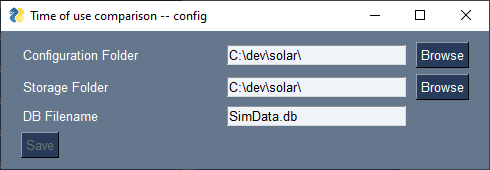
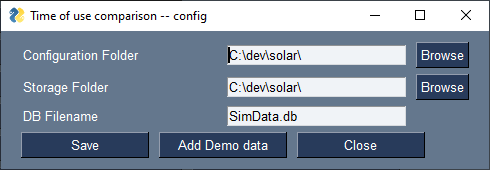
Adding demo data

Changed region(s): [[0.0306, 0.7647, 0.8878, 0.9412], [0.4592, 0.2941, 0.4898, 0.3529]]

diff --git a/toutc.py b/toutc.py
@@ -10,9 +10,10 @@ from simulate import guiMain
 from fetchdata_gui import guiFetch
 from makedb import guiMakeDB
 from makedbFromProfile import _guiDBFromProfile
-from windowRates import getRates
+from windowRates import getRates, _updateRates
 from loadDefaultSolar import loadDefaultSolar
 from reportdb import display
+from demodefaults import DEMO_START, DEMO_ANNUAL, DEMO_BASE, DEMO_MONTHLYDIST, DEMO_DOWDIST, DEMO_HOURLYDIST, DEMO_RATES, DEMO_SYSTEM
 
 MAIN_WINDOW = None
 
@@ -26,6 +27,28 @@ STATUS_SCENARIOS = False
 STATUS_LOAD = False
 STATUS_PV = False
 STATUS_RATES = False
+
+def _saveDemoConfig(): 
+    # SystemProperties.json
+    _updateSysConfig(DEMO_SYSTEM)
+    # rates.json
+    _updateRates(DEMO_RATES)
+    # loadProfile.json
+    profile = {}
+    profile["AnnualUsage"] = DEMO_ANNUAL
+    profile["HourlyBaseLoad"] = DEMO_BASE
+    profile["MonthlyDistribution"] = DEMO_MONTHLYDIST
+    profile["DayOfWeekDistribution"] = DEMO_DOWDIST
+    profile["HourlyDistribution"] = DEMO_HOURLYDIST
+    _saveProfile(profile)
+    # populateDB 
+    _guiDBFromProfile(CONFIG, DEMO_START)
+    # solar 
+    dbFile = os.path.join(STORAGE, DBFILE)
+    loadDefaultSolar(CONFIG, dbFile)
+    
+    _setStatus()
+    return
 
 def _writeEnv():
     data = {}
@@ -43,12 +66,13 @@ def _getConfig():
     global DBFILE
 
     enableSave = not os.path.isdir(CONFIG) and not os.path.isdir(STORAGE)
+    enableDemo = not os.path.isfile(os.path.join(CONFIG, "EnvProperties.json"))
 
     left_col = [
             [sg.Text('Configuration Folder', size=(24,1)), sg.In(size=(25,1), enable_events=True ,key='-C_FOLDER-', default_text=CONFIG), sg.FolderBrowse()],
             [sg.Text('Storage Folder', size=(24,1)), sg.In(size=(25,1), enable_events=True ,key='-S_FOLDER-', default_text=STORAGE), sg.FolderBrowse()],
             [sg.Text('DB Filename', size=(24,1)), sg.In(size=(25,1), enable_events=True ,key='-DB_NAME-', default_text=DBFILE)],
-            [sg.Button('Save', key='-CONFIG_OK-', disabled=enableSave)]
+            [sg.Button('Save', key='-CONFIG_OK-', disabled=enableSave, size=(15,1)), sg.Button('Add Demo data', key='-DEMO-', disabled=enableDemo, size=(15,1)), sg.Button('Close', key='-CLOSE-', size=(15,1)) ]
     ]
     layout = [[sg.Column(left_col, element_justification='l')]]    
     window = sg.Window('Time of use comparison -- config', layout,resizable=True)
@@ -67,7 +91,12 @@ def _getConfig():
             sfolder = values['-S_FOLDER-'] 
             if os.path.isdir(cfolder) and os.path.isdir(sfolder):
                 window['-CONFIG_OK-'].update(disabled=False) 
-        if event == '-DB_NAME-': dbFile = values['-DB_NAME-'] 
+        if event == '-DB_NAME-': dbFile = values['-DB_NAME-']
+        if event == '-DEMO-':
+            _saveDemoConfig()
+        if event == '-CLOSE-':
+            window.close()
+            break
         if event == '-CONFIG_OK-':
             CONFIG = cfolder
             STORAGE = sfolder
@@ -75,8 +104,7 @@ def _getConfig():
             if os.path.isdir(cfolder) and os.path.isdir(sfolder):
                 _writeEnv()
                 _setStatus()
-                window.close()
-            break
+                window['-DEMO-'].update(disabled=False) 
 
 def _loadSysConfig():
     global STATUS_SYS_CONFIG
@@ -245,6 +273,19 @@ def _setStatus():
         MAIN_WINDOW['-SIMULATE-'].update(disabled=False)
     else:
         MAIN_WINDOW['-SIMULATE-'].update(disabled=True)
+    
+    if not STATUS_BASIC_CONFIG:
+        MAIN_WINDOW['-SYS_CONFIG-'].update(disabled=True)
+        MAIN_WINDOW['-SCENARIOS-'].update(disabled=True)
+        MAIN_WINDOW['-PROFILE-'].update(disabled=True)
+        MAIN_WINDOW['-SOLAR_DATA-'].update(disabled=True)
+        MAIN_WINDOW['-RATES-'].update(disabled=True)
+    else:
+        MAIN_WINDOW['-SYS_CONFIG-'].update(disabled=False)
+        MAIN_WINDOW['-SCENARIOS-'].update(disabled=False)
+        MAIN_WINDOW['-PROFILE-'].update(disabled=False)
+        MAIN_WINDOW['-SOLAR_DATA-'].update(disabled=False)
+        MAIN_WINDOW['-RATES-'].update(disabled=False)
     return
 
 def _renderLoadShift(loadShift):
@@ -577,7 +618,7 @@ def _renderMonthlyDist(distribution):
     return window
 
 def _getMonthlyDist(profile):
-    monthlyDist = monthlyDist = {"Jan": 9.37, "Feb": 7.08, "Mar": 8.12, "Apr": 8.14, "May": 9.4, "Jun": 8.98, "Jul": 8.87, "Aug": 9.17, "Sep": 6.45, "Oct": 7.95, "Nov": 7.53, "Dec": 8.96}
+    monthlyDist = {"Jan": 9.37, "Feb": 7.08, "Mar": 8.12, "Apr": 8.14, "May": 9.4, "Jun": 8.98, "Jul": 8.87, "Aug": 9.17, "Sep": 6.45, "Oct": 7.95, "Nov": 7.53, "Dec": 8.96}
     try:
         monthlyDist = profile["MonthlyDistribution"]
     except:
@@ -602,7 +643,7 @@ def _renderDOWDist(dowdDist):
     return window
 
 def _getDOWDist(profile):
-    dayOfWeekDist = dayOfWeekDist = {"Sun": 14.75, "Mon": 14.13, "Tue": 13.22, "Wed": 13.67, "Thu": 13.68, "Fri": 14.18, "Sat": 16.37
+    dayOfWeekDist = {"Sun": 14.75, "Mon": 14.13, "Tue": 13.22, "Wed": 13.67, "Thu": 13.68, "Fri": 14.18, "Sat": 16.37
     }
     try:
         dayOfWeekDist = profile["DayOfWeekDistribution"]
@@ -811,10 +852,20 @@ def _showReportDB():
 
 def _callSimulate():
     begin = "2001-01-01"
+    try:
+        dbFile = os.path.join(STORAGE, DBFILE)
+        conn = sqlite3.connect(dbFile)
+        cur = conn.cursor()
+        cur.execute("SELECT min(Date) FROM dailysums")
+        res = cur.fetchone()
+        conn.close()
+        begin = res[0]
+    except:
+        pass
     end = 12
     left_col = [
              [sg.Text('Start date', size=(24,1)), 
-             sg.In(size=(25,1), enable_events=True ,key='-CAL-'), 
+             sg.In(size=(25,1), enable_events=True ,key='-CAL-', default_text=begin), 
              sg.CalendarButton('Change date', size=(25,1), target='-CAL-', pad=None, 
                                 key='-CAL1-', format=('%Y-%m-%d'))],
             [sg.Text('Number of months to simulate', size=(24,1)), sg.In(size=(25,1), enable_events=True ,key='-SIM_MONTHS-', default_text="12")],
@@ -828,12 +879,11 @@ def _callSimulate():
         if event in (sg.WIN_CLOSED, 'Exit'): break
         if event == '-CAL-': begin = values['-CAL-']
         if event == '-SIM_MONTHS-': end = values['-SIM_MONTHS-']
-        if event == '-SIM_OK-': break
+        if event == '-SIM_OK-': 
+            window.close()
+            guiMain(CONFIG, begin, end)
+            break
 
-    window.close()
-    # print (begin, end)
-
-    guiMain(CONFIG, begin, end)
 
 def _mainWin():
     global MAIN_WINDOW

diff --git a/demodefaults.py b/demodefaults.py
@@ -1,0 +1,9 @@
+DEMO_RATES = [{"Supplier": "Supplier1", "Plan": "Midnight discount", "Rates": [{"Days": [0, 1, 2, 3, 4, 5, 6], "Hours": [15.88, 15.88, 8.57, 8.57, 15.88, 15.88, 15.88, 15.88, 30.84, 30.84, 30.84, 30.84, 30.84, 30.84, 30.84, 30.84, 30.84, 30.84, 30.84, 30.84, 30.84, 30.84, 30.84, 15.88, 15.88]}], "Feed": 14.0, "Standing charges": 371.19, "Bonus cash": 150.0}, {"Supplier": "Supplier1", "Plan": "Basic smart", "Rates": [{"Days": [0, 1, 2, 3, 4, 5, 6], "Hours": [15.83, 15.83, 15.83, 15.83, 15.83, 15.83, 15.83, 15.83, 30.12, 30.12, 30.12, 30.12, 30.12, 30.12, 30.12, 30.12, 30.12, 33.99, 33.99, 33.99, 24.69, 24.69, 24.69, 15.83, 15.83]}], "Feed": 0, "Standing charges": 283.28, "Bonus cash": 150}, {"Supplier": "Supplier1", "Plan": "Free at weekends", "Rates": [{"Days": [1, 2, 3, 4, 5], "Hours": [30.37, 30.37, 30.37, 30.37, 30.37, 30.37, 30.37, 30.37, 30.37, 30.37, 30.37, 30.37, 30.37, 30.37, 30.37, 30.37, 30.37, 30.37, 30.37, 30.37, 30.37, 30.37, 30.37, 30.37, 30.37]}, {"Days": [0, 6], "Hours": [0.0, 0.0, 0.0, 0.0, 0.0, 0.0, 0.0, 0.0, 0.0, 0.0, 0.0, 0.0, 0.0, 0.0, 0.0, 0.0, 0.0, 0.0, 0.0, 0.0, 0.0, 0.0, 0.0, 1.0, 1.0]}], "Feed": 14.0, "Standing charges": 282.28, "Bonus cash": 150.0}, {"Supplier": "Supplier2", "Plan": "Midnight discount", "Rates": [{"Days": [0, 1, 2, 3, 4, 5, 6], "Hours": [38.25, 38.25, 5.68, 5.68, 5.68, 38.25, 38.25, 38.25, 38.25, 38.25, 38.25, 38.25, 38.25, 38.25, 38.25, 38.25, 38.25, 38.25, 38.25, 38.25, 38.25, 38.25, 38.25, 38.25, 38.25]}], "Feed": 13.5, "Standing charges": 227.06, "Bonus cash": 0}, {"Supplier": "Supplier3", "Plan": "Domestic, smart", "Feed": 14.0, "Standing charges": 223.12, "Bonus cash": 0.0, "Rates": [{"Days": [0, 1, 2, 3, 4, 5, 6], "Hours": [19.47, 19.47, 19.47, 19.47, 19.47, 19.47, 19.47, 19.47, 25.67, 25.67, 25.67, 25.67, 25.67, 25.67, 25.67, 25.67, 25.67, 27.38, 27.38, 25.67, 25.67, 25.67, 25.67, 19.47, 19.47]}]}]
+DEMO_SYSTEM = {"Battery Size": 5.7, "Original panels": 14, "Increaed panels": 14, "Discharge stop": 19.6, "Min excess": 0.008, "Store efficiency": 100, "Max discharge": 0.225, "Max charge": 0.225, "Max Inverter load": 5, "Massage FeedIn": 87.5, "Massage Buy": 94.5, "(Dis)charge loss": 4, "ChargeModel": {"0": 30, "12": 100, "90": 10, "100": 0}, "Scenarios": [{"Name": "5.7 & Seasonal LS", "Battery Size": 5.7, "Increaed panels": 14, "Discharge stop": 19.6, "LoadShift": [{"begin": 2, "end": 8, "stop at": 80, "months": [1, 12]}, {"begin": 2, "end": 4, "stop at": 50, "months": [3, 4, 5, 6, 7, 8, 9, 10]}, {"begin": 2, "end": 8, "stop at": 60, "months": [2, 11]}], "CarCharge": []}, {"Name": "10.3 and always LS", "Battery Size": 10.3, "Increaed panels": 26, "Discharge stop": 19.6, "LoadShift": [{"begin": 2, "end": 8, "stop at": 80, "months": [1, 2, 3, 4, 5, 6, 7, 8, 9, 10, 11, 12, 1, 2, 3, 4, 5, 6, 7, 8, 9, 10, 11, 12]}], "CarCharge": []}, {"Name": "No battery", "Battery Size": 0, "Increaed panels": 0, "Discharge stop": 19.6, "LoadShift": [], "CarCharge": []}, {"Name": "5.7 & always LS", "Battery Size": 5.7, "Increaed panels": 14, "Discharge stop": 19.6, "LoadShift": [{"begin": 2, "end": 8, "stop at": 80, "months": [1, 2, 3, 4, 5, 6, 7, 8, 9, 10, 11, 12, 1, 2, 3, 4, 5, 6, 7, 8, 9, 10, 11, 12]}], "CarCharge": []}]}
+
+DEMO_START = "2022-01-01"
+DEMO_ANNUAL = 8000
+DEMO_BASE = 0.3
+DEMO_MONTHLYDIST = {"Jan": 9.37, "Feb": 7.08, "Mar": 8.12, "Apr": 8.14, "May": 9.4, "Jun": 8.98, "Jul": 8.87, "Aug": 9.17, "Sep": 6.45, "Oct": 7.95, "Nov": 7.53, "Dec": 8.96}
+DEMO_DOWDIST = {"Sun": 14.75, "Mon": 14.13, "Tue": 13.22, "Wed": 13.67, "Thu": 13.68, "Fri": 14.18, "Sat": 16.37}
+DEMO_HOURLYDIST = [3.52,2.87,2.68,2.53,2.18,2.10,3.95,3.72,3.54,3.35,4.04,5.16,5.57,4.85,4.56,4.10,4.54,7.96,5.86,4.40,4.27,4.43,5.05,4.77]

diff --git a/README.md b/README.md
@@ -32,7 +32,10 @@ The basic configuration is used to pick a storage locations. If the folders do n
 
 ![Basic configuration](./docs/BasicConfig.png)
 
-Of course, at this stage there is no other configurtion, so working down from the top.
+At this point, there is no other configurtion. There are two options:
+* Use demo data for a quick start (Click the 'Add Demo Data' button). You can then explore the rest of the configuraton and try out the simulate directly.
+
+* Create your own configuration from scratch -- keep reading
 
 The system configuration is populated with some defaults that describe a basic battery (5.7KWH) and inverter (5.0 KW) setup. Modify these if you have your own solar data. Update saves a configuration file that is used elsewhere.
 
